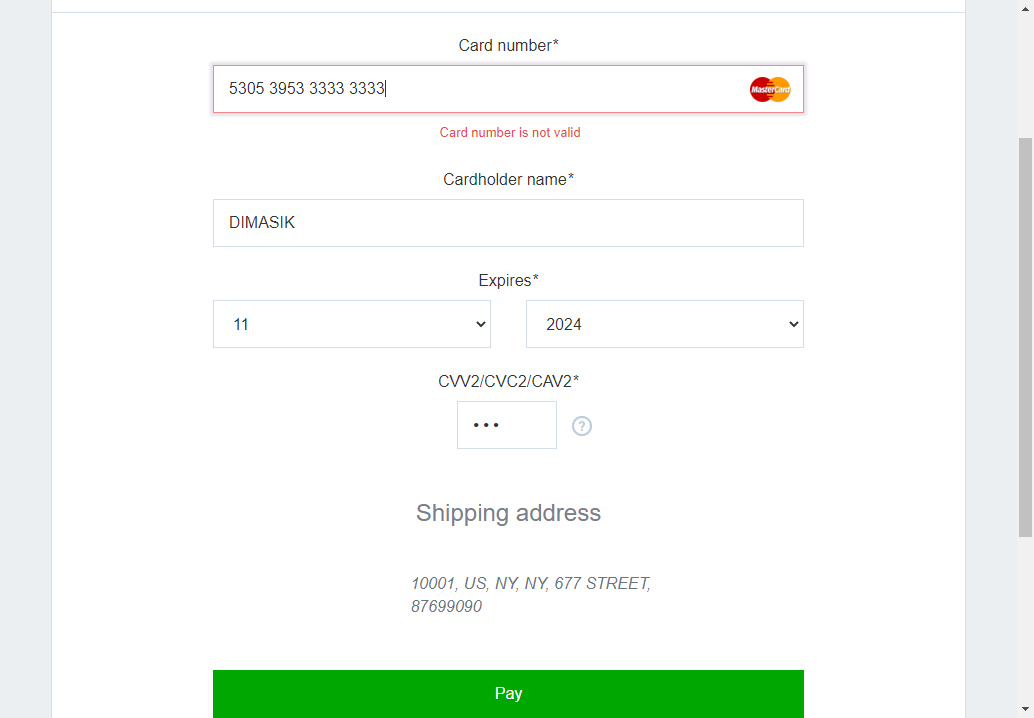
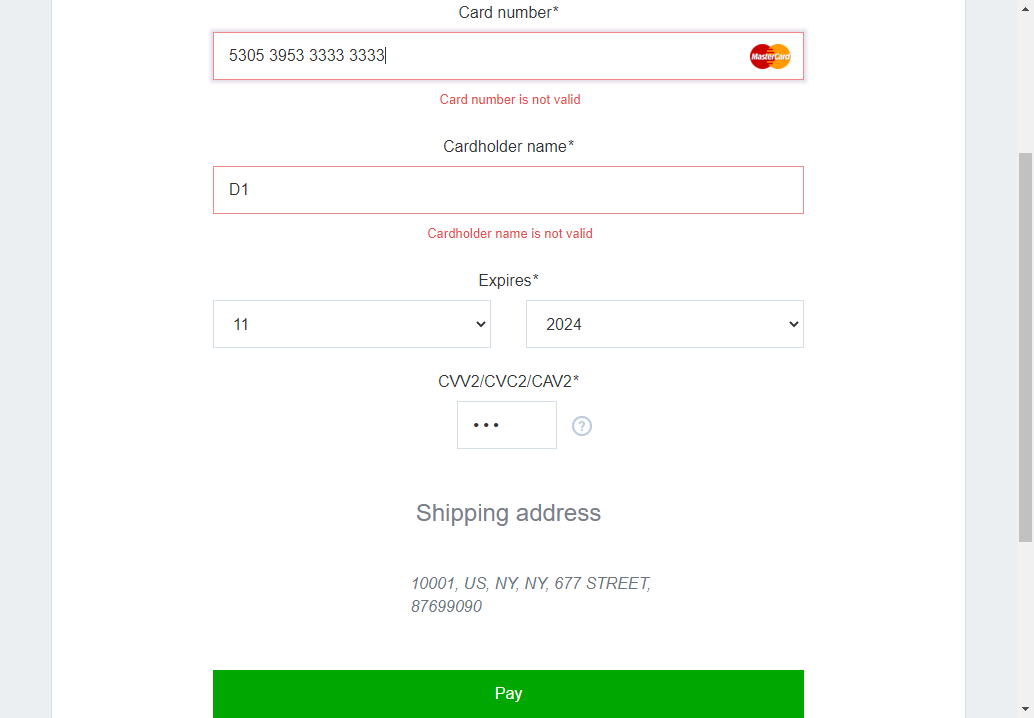
Junit + Selenium Build for CardPay Validation

diff --git a/Individual work/Dmitriy Tikhonov/CardPay/src/main/java/FirstTest.java b/Individual work/Dmitriy Tikhonov/CardPay/src/main/java/FirstTest.java
@@ -131,7 +131,7 @@ public class FirstTest {
     @Test
     public void fourthAttempts() throws IOException { //Четвертый тест. Невалидные данные
         cardNumber.sendKeys("5305395333333333");
-        cardHolder.sendKeys("Dimasik");
+        cardHolder.sendKeys("D1");
         expiresMonth.selectByIndex(11);
         expiresYear.selectByValue("2024");
         cardCvc.sendKeys("395");
@@ -139,14 +139,16 @@ public class FirstTest {
         actionSubmit.click();
 
         Assert.assertEquals("Card number is not valid", driver.findElement(By.cssSelector("#card-number-field > div > label")).getText());
+        Assert.assertEquals("Cardholder name is not valid", driver.findElement(By.cssSelector("#card-holder-field > div > label")).getText());
 
         /*/Делаем скрин/*/
         File CardNumberIsNotValid = ((TakesScreenshot) driver).getScreenshotAs(OutputType.FILE);
         FileUtils.copyFile(CardNumberIsNotValid, new File("target\\screenshot\\Card number is not valid.png"));
     }
 
-//    @AfterClass
-//    public static void tearDown() {
-//        driver.quit();
-//    }
+    @AfterClass
+    public static void tearDown() {
+        driver.quit();
+    }
 }
+
